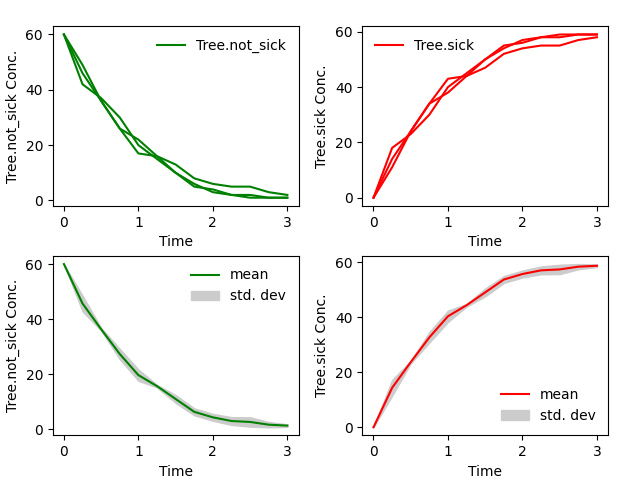
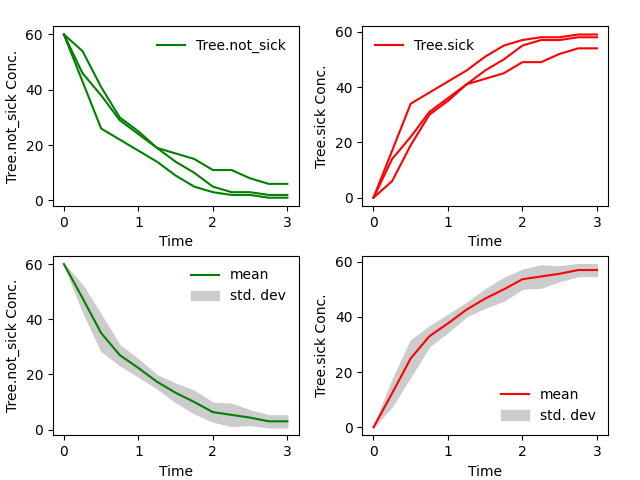
Added update model implentation

diff --git a/test_script.py b/test_script.py
@@ -4,8 +4,9 @@
 
 import pytest
 import mobspy
-from mobspy import BaseSpecies, Simulation, New, u, ModelParameters, simlog, Assign, Rev, All, set_counts, basiCO_parameter_estimation
-from tellurium import loada as te_load_anti
+from mobspy import (BaseSpecies, Simulation, New, u, ModelParameters, simlog, Assign, Rev, All, set_counts,
+                    basiCO_parameter_estimation)
+# from tellurium import loada as te_load_anti
 import numpy as np
 from copy import deepcopy
 import sys
@@ -1876,11 +1877,11 @@ def test_antimony_model():
     S.duration = 10
 
     anti_model = S.generate_antimony()[0]
-    r = te_load_anti(anti_model)
-    results = r.simulate(0, 10, 3)
-    assert results[0][1] == 2
-    assert results[-1][1] > 1
-    assert results[-1][2] < 0.01
+    # r = te_load_anti(anti_model)
+    # results = r.simulate(0, 10, 3)
+    # assert results[0][1] == 2
+    # assert results[-1][1] > 1
+    # assert results[-1][2] < 0.01
 
 def test_antimony_compose_model_gen():
     A, B, C = BaseSpecies()
@@ -1905,10 +1906,58 @@ def test_antimony_compose_model_gen():
 
     anti_model = S.generate_antimony(compose=True, model_name="test_compose")[0]
 
-    r = te_load_anti(anti_model)
-    results = r.simulate(0, 10, 3)
+    # r = te_load_anti(anti_model)
+    # results = r.simulate(0, 10, 3)
 
-    assert results[0][1] == 1
-    assert results[-1][1] > 10
-    assert results[-1][2] == 10
+    # assert results[0][1] == 1
+    # assert results[-1][1] > 10
+    # assert results[-1][2] == 10
 
+# This is here because pytest is slow - but this script works fine with pytest. Just make sure that the
+# python version in terminal is above 3.10
+test_list = [test_model_1, test_model_2, test_model_3, test_model_4, test_model_5, test_model_6, test_model_7,
+             test_orthogonal_spaces, test_average_value, test_hybrid_sim, test_concatenated_simulation,
+             test_event_type, test_reacting_species_event, test_unit_event_test, test_reaction_deactivation,
+             test_double_rate, test_single_rate, test_triple_rate, test_stochastic_event_duration,
+             test_logic_operator_syntax, test_stack_position, test_empty_arguments,
+             test_conditional_between_meta_species, test_conditional_between_meta_species_2,
+             test_event_reaction_not_allowed, all_test, all_test_2, test_error_mult, test_set_counts,
+             test_bool_error, test_event_all, test_one_value_concatenation_sim, test_crash_after_modification,
+             test_unit_bi_dimension, test_bi_dimensional_rates, test_dimension_in_function_only,
+             test_multiple_simulation_counts, test_string_events_assignment, test_plotting,
+             test_volume_after_sim, test_parameters_with_sbml, test_shared_parameter_name,
+             test_set_counts_parameters, test_repeated_parameters, initial_expression_test,
+             test_wrong_dimension_error, test_more_than_used, zero_rate_test, test_wrong_rate,
+             test_conversion_outside, test_first_characteristic_in_reacting_species, test_model_reference,
+             test_sbml_generation, test_multi_sim_sbml, test_inline_comment,
+             test_with_statement_any_and_species_characteristics, test_with_statement_on_any_and_event,
+             test_matching_characteristic_rate, test_changes_after_compilation, test_proper_unit_context_exit,
+             test_run_args, test_unit_args, test_multi_parameters_in_run, test_output_concentration_in_multi_sim,
+             test_parameter_operation_in_rate, test_multi_parameter_with_expression, test_double_parameters_with_units,
+             test_parameters_with_units, test_convert_back_parameter,
+             test_numpy_in_expression_function, test_numpy_in_rates,
+             test_numpy_in_counts, test_numpy_in_set_counts, test_multi_methods_plot, test_unit_x_conversion,
+             test_Silicon_valley, test_replacing_species_name_in_expression, test_basic_assignment,
+             test_all_asgn_ops, text_complex_assignments,
+             text_assign_context_exit, text_even_more_complex_assignments, test_assign_context_complex,
+             test_assign_context_constant, test_duration_with_run, test_rev, test_dimensionless_count,
+             test_assignment_similar_species, test_blocked_names, test_blocked_names_2]
+
+# test_no_species_in_asg
+# test_illegal_unit_op_in_assignment
+# temporary_test_removal = [test_parameter_fit_with_units, test_multiple_runs_fit, test_simple_fit]
+test_remov = [test_antimony_compose_model_gen, test_antimony_model]
+sub_test = test_list
+#sub_test = [test_antimony_compose_model_gen]
+def perform_tests():
+    any_failed = False
+    for test in sub_test:
+        try:
+            test()
+            print(f'Test {test} passed')
+        except:
+            print('\033[91m' + f'Test {test} failed' + '\033[0m', file=sys.stderr)
+            any_failed = True
+    if any_failed:
+        assert False
+perform_tests()

diff --git a/mobspy/modules/mobspy_parameters.py b/mobspy/modules/mobspy_parameters.py
@@ -28,34 +28,38 @@ class _Internal_Parameter_Constructor(me_ExpressionDefiner, me_QuantityConverter
         self._operation = str(name)
         self._parameter_set.add(self)
 
-        def unit_process(value):
-            # We convert into MobsPy units already during the definition of a parameter
-            self.value = self.convert_received_unit(value).magnitude
+        self.process_value(value)
 
-            self.original_magnitude = value.magnitude
-            self.conversion_factor = self.value / self.original_magnitude
-            self.original_unit = value.units
+    def unit_process(self, value):
+        # We convert into MobsPy units already during the definition of a parameter
+        self.value = self.convert_received_unit(value).magnitude
 
-            # For future developers, the T is there to avoid potential bugs with the . query
-            self._unit_count_op = value
-            self._unit_conc_op = value
-            self._unit_operation = value
-            self._has_units = 'T'
+        self.original_magnitude = value.magnitude
+        self.conversion_factor = self.value / self.original_magnitude
+        self.original_unit = value.units
 
-            return self.value, self.original_unit
+        # For future developers, the T is there to avoid potential bugs with the . query
+        self._unit_count_op = value
+        self._unit_conc_op = value
+        self._unit_operation = value
+        self._has_units = 'T'
+
+        return self.value, self.original_unit
+
+    def process_value(self, value):
 
         if isinstance(value, Quantity):
-            unit_process(value)
+            self.unit_process(value)
         elif type(value) == list or type(value) == tuple:
             new_list = []
             first_unit = None
             for i, val in enumerate(value):
                 if isinstance(val, Quantity) and i == 0:
-                    new_value, first_unit = unit_process(val)
+                    new_value, first_unit = self.unit_process(val)
                 elif isinstance(val, Quantity) and i > 0 and first_unit is None:
                     simlog.error("MobsPy parameters must all be the same unit", stack_index=1)
                 elif isinstance(val, Quantity) and i > 0 and first_unit is not None:
-                    new_value, unit = unit_process(val)
+                    new_value, unit = self.unit_process(val)
                     if unit != first_unit:
                         simlog.error("MobsPy parameters must all be the same unit", stack_index=1)
                 else:
@@ -71,6 +75,7 @@ class _Internal_Parameter_Constructor(me_ExpressionDefiner, me_QuantityConverter
             self._unit_conc_op = 1
             self.conversion_factor = 1
             self._has_units = False
+
 
     def convert_to_original_unit(self):
         """
@@ -107,6 +112,21 @@ class _Internal_Parameter_Constructor(me_ExpressionDefiner, me_QuantityConverter
             return True
         else:
             return False
+
+    def update_value(self, new_value):
+
+        temp_set = set()
+        temp_set.add(self)
+        self.original_value = new_value
+
+        self._ms_active = True
+
+        self._parameter_set.add(self)
+
+        self.process_value(new_value)
+
+    def get_name(self):
+        return self.name
 
     def __str__(self):
         return str(self._operation)

diff --git a/mobspy/simulator_object/simulator_object_functions.py b/mobspy/simulator_object/simulator_object_functions.py
@@ -1,4 +1,7 @@
+from scipy.constants import value
+
 import mobspy.simulation_logging.log_scripts as simlog
+from mobspy.modules.mobspy_parameters import _Internal_Parameter_Constructor
 
 
 def sim_remove_reaction(sim, reaction, Simulation_Constructor):
@@ -11,11 +14,67 @@ class Simulation_Utils:
 
     def update_model(self, *args):
 
+        if not self._list_of_models:
+            simlog.error('In .update_model method - \n'
+                         'The model was not compiled yet. The update_model method is reserved for simulations that '
+                         'have already been compiled')
+
         for arg in args:
 
             if len(arg) != 2:
-                simlog.error(' In .update_model method - '
+                simlog.error('In .update_model method - \n'
                              'Please all parameters and species changes must be in the format: \n'
                              '(name, value)')
 
+            self._update_from_compiler(arg)
+
+        # This does not look to be necessary
+        # We need to regenerate the sbml files - each parameter has a single sbml file
+        # They are generated in _assemble_multi_simulation_structure - which is a partial compilation
+        # self._assemble_multi_simulation_structure()
+
+
+    def _update_from_compiler(self, arg):
+
+        if isinstance(arg[0], _Internal_Parameter_Constructor):
+            self._update_parameter(arg)
+
+        else:
+            simlog.error('Placeholder error for now')
+
+
+    def _update_parameter(self, arg):
+
+        try:
+            iterable = iter(arg[1])
+        except TypeError:
+            iterable = False
+
+        if iterable:
+            value_to_update = arg[1][0]
+        else:
+            value_to_update = arg[1]
+
+        if type(arg) == str:
+            parameter_str = arg[0]
+        else:
+            parameter_str = arg[0].get_name()
+
+        # Update values on standard compiler
+        for model in self._list_of_models:
+            try:
+                model['parameters_for_sbml'][parameter_str ] = (value_to_update, 'dimensionless')
+            except KeyError:
+                simlog.error(f'The parameter named {parameter_str } was not found in the model')
+
+        # Update parameter in model_parameters in the simulation object
+        try:
+            if not iterable:
+                self.model_parameters[parameter_str]['values'] = [arg[1]]
+            else:
+                self.model_parameters[parameter_str]['values'] = arg[1]
+        except KeyError:
+            simlog.error(f'The parameter named {parameter_str} was not found in the model')
+
+        self.model_parameters[parameter_str]['object'].update_value(arg[1])
 

diff --git a/mobspy/modules/compiler.py b/mobspy/modules/compiler.py
@@ -29,7 +29,8 @@ class Compiler:
             if parameter.name in parameters_used:
                 parameters_used[parameter.name]['used_in'].add('$sbml')
             else:
-                temp = {'name': parameter.name, 'values': parameter.value, 'used_in': {'$sbml'}}
+                temp = {'name': parameter.name, 'values': parameter.value, 'used_in': {'$sbml'},
+                        'object': parameter}
                 parameters_used[parameter.name] = temp
 
             try:
@@ -138,7 +139,7 @@ class Compiler:
             species.order_references()
 
         # Start by creating the Mappings for the SBML
-        # Convert to user friendly format as well
+        # Convert to user-friendly format as well
         mappings_for_sbml = {}
         for spe_object in meta_species_to_simulate:
             mappings_for_sbml[spe_object.get_name()] = []
@@ -202,7 +203,7 @@ class Compiler:
                         = parameters_used[count['quantity'].name]['used_in'].union(set(species_strings))
                 else:
                     temp = {'name': count['quantity'].name, 'values': count['quantity'].value,
-                            'used_in': set(species_strings)}
+                            'used_in': set(species_strings), 'object': count['quantity']}
                     parameters_used[count['quantity'].name] = temp
 
             temp_count = uh_convert_counts(count['quantity'], volume, dimension)
@@ -232,7 +233,7 @@ class Compiler:
                     parameters_used[count['quantity'].name]['used_in'].add(species_string)
                 else:
                     temp = {'name': count['quantity'].name, 'values': count['quantity'].value,
-                            'used_in': {species_string}}
+                            'used_in': {species_string}, 'object': count['quantity']}
                     parameters_used[count['quantity'].name] = temp
 
             temp_count = uh_convert_counts(count['quantity'], volume, dimension)

diff --git a/mobspy/simulation.py b/mobspy/simulation.py
@@ -44,6 +44,7 @@ from mobspy.data_handler.process_result_data import extract_time_and_volume_list
     convert_data_to_desired_unit as dh_convert_data_to_desired_unit
 from mobspy.data_handler.time_series_object import MobsPyTimeSeries, MobsPyList_of_TS
 from mobspy.simulator_object.simulator_object_functions import sim_remove_reaction as sof_sim_remove_reaction
+from mobspy.simulator_object.simulator_object_functions import Simulation_Utils
 from json import dump as json_dump, load as json_load
 from mobspy.plot_scripts.default_plots import deterministic_plot as dp_deterministic_plot, \
     stochastic_plot as dp_stochastic_plot, raw_plot as dp_raw_plot, parametric_plot as dp_parametric_plot
@@ -53,7 +54,7 @@ from random import randint as rd_randint
 import re
 
 
-class Simulation(pdl_Experimental_Data_Holder):
+class Simulation(pdl_Experimental_Data_Holder, Simulation_Utils):
 
     # Event Implementation
     @classmethod
@@ -307,11 +308,11 @@ class Simulation(pdl_Experimental_Data_Holder):
 
     def _assemble_multi_simulation_structure(self):
 
-        if not self.sbml_data_list:
-            data_for_sbml_construction, parameter_list_of_dic = ps_generate_all_sbml_models(self.model_parameters,
-                                                                                            self._list_of_models)
-            self.sbml_data_list = data_for_sbml_construction
-            self._parameter_list_of_dic = parameter_list_of_dic
+        data_for_sbml_construction, parameter_list_of_dic = ps_generate_all_sbml_models(self.model_parameters,
+                                                                                        self._list_of_models)
+        self.sbml_data_list = data_for_sbml_construction
+        self._parameter_list_of_dic = parameter_list_of_dic
+
 
     def run(self, duration=None, volume=None, dimension=None,
             repetitions=None, level=None, simulation_method=None,

diff --git a/for_local_use.py b/for_local_use.py
@@ -6,15 +6,28 @@ if __name__ == '__main__':
     k1 = ModelParameters(1)
     A, B, C, D = BaseSpecies()
 
-    A >> 2 * B[modules.mobspy_parameters._Internal_Parameter_Constructor('k1', 3)]
-    B >> C + D[modules.mobspy_parameters._Internal_Parameter_Constructor('k2', 1.4)]
+    k1 = ModelParameters([1, 2, 3])
+
+    A >> Zero [2*k1]
 
     A(100)
-    S = Simulation(A | B | C | D)
-    S.duration = 10
-    print(S.compile())
+    S1 = Simulation(A)
+    S1.duration = 10
+    # print(S.compile())
     # print(S.generate_sbml()[0])
 
-    S.update_model()
+    A.reset_reactions()
+    B >> Zero [1]
 
+    B(200)
+    S2 = Simulation(A | B)
+    S2.duration = 5
 
+    S = S1 + S2
+    S.compile()
+    # S.run()
+    S1.update_model([k1, 1])
+    S.run()
+
+    # TODO - Fix 2*k1 in B later
+    # TODO - Fix multiple compilation issue
